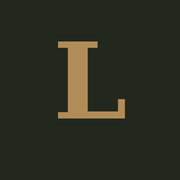
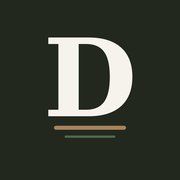
Add files via upload

Changed region(s): [[0.25, 0.1944, 0.75, 0.6667], [0.2778, 0.6944, 0.7222, 0.7222], [0.3611, 0.75, 0.6389, 0.7778]]

diff --git a/index.html b/index.html
@@ -5,10 +5,10 @@
 <meta name="viewport" content="width=device-width, initial-scale=1.0, viewport-fit=cover">
 <meta name="apple-mobile-web-app-capable" content="yes">
 <meta name="apple-mobile-web-app-status-bar-style" content="black-translucent">
-<meta name="apple-mobile-web-app-title" content="Ledger">
+<meta name="apple-mobile-web-app-title" content="Daybook">
 <meta name="mobile-web-app-capable" content="yes">
 <meta name="theme-color" content="#23281F">
-<title>Ledger — Money Ops</title>
+<title>Daybook</title>
 <link rel="apple-touch-icon" href="icon-180.png">
 <link rel="icon" type="image/png" sizes="32x32" href="favicon-32.png">
 <link rel="manifest" href="manifest.json">
@@ -528,7 +528,7 @@
 <div class="phone">
 
   <div class="topbar">
-    <h1>Ledger</h1>
+    <h1>Daybook</h1>
     <div class="month-nav" id="monthNavEl">
       <button id="prevMonth" aria-label="Previous month">‹</button>
       <span id="monthLabel">—</span>
@@ -910,7 +910,7 @@
         <button type="button" class="chip" data-group="Legs">Legs</button>
         <button type="button" class="chip" data-group="Other">Other</button>
       </div>
-      <button type="button" class="event-tag-toggle" id="ledgerToggle" style="display:block; margin-bottom:16px;">Edit exercise ledger</button>
+      <button type="button" class="event-tag-toggle" id="ledgerToggle" style="display:block; margin-bottom:16px;">Edit exercise list</button>
       <div id="exerciseLedger" style="display:none; margin-bottom:18px;"></div>
       <button type="button" class="new-loan-toggle health-toggle" id="newWorkoutToggle">+ Log workout</button>
       <div class="new-loan-form" id="newWorkoutForm">
@@ -1249,8 +1249,8 @@ overlay.id = '__authOverlay';
 overlay.style.cssText = 'position:fixed;inset:0;z-index:9999;display:flex;flex-direction:column;'
   + 'align-items:center;justify-content:center;background:#EDEAE0;color:#23281F;'
   + "font-family:'Inter',system-ui,sans-serif;padding:24px;text-align:center;";
-overlay.innerHTML = '<div style="font-family:\'Fraunces\',Georgia,serif;font-size:27px;font-weight:600;margin-bottom:6px;">Ledger</div>'
-  + '<div style="font-size:13px;color:#6B7063;max-width:290px;line-height:1.5;margin-bottom:20px;">Sign in to sync your ledger securely across all your devices.</div>'
+overlay.innerHTML = '<div style="font-family:\'Fraunces\',Georgia,serif;font-size:27px;font-weight:600;margin-bottom:6px;">Daybook</div>'
+  + '<div style="font-size:13px;color:#6B7063;max-width:290px;line-height:1.5;margin-bottom:20px;">Sign in to sync your Daybook securely across all your devices.</div>'
   + '<button id="__signInBtn" style="border:none;border-radius:12px;background:#4C6B4F;color:#F5F3EB;font-size:15px;font-weight:600;padding:13px 22px;cursor:pointer;">Sign in with Google</button>'
   + '<div id="__authErr" style="font-size:12px;color:#9C3D2E;margin-top:14px;max-width:290px;"></div>';
 document.body.appendChild(overlay);
@@ -3688,7 +3688,7 @@ onAuthStateChanged(auth, async (user) => {
     const url = URL.createObjectURL(blob);
     const a = document.createElement('a');
     a.href = url;
-    a.download = (auto ? 'ledger-autobackup-' : 'ledger-backup-') + todayStr() + '.json';
+    a.download = (auto ? 'daybook-autobackup-' : 'daybook-backup-') + todayStr() + '.json';
     document.body.appendChild(a);
     a.click();
     document.body.removeChild(a);
